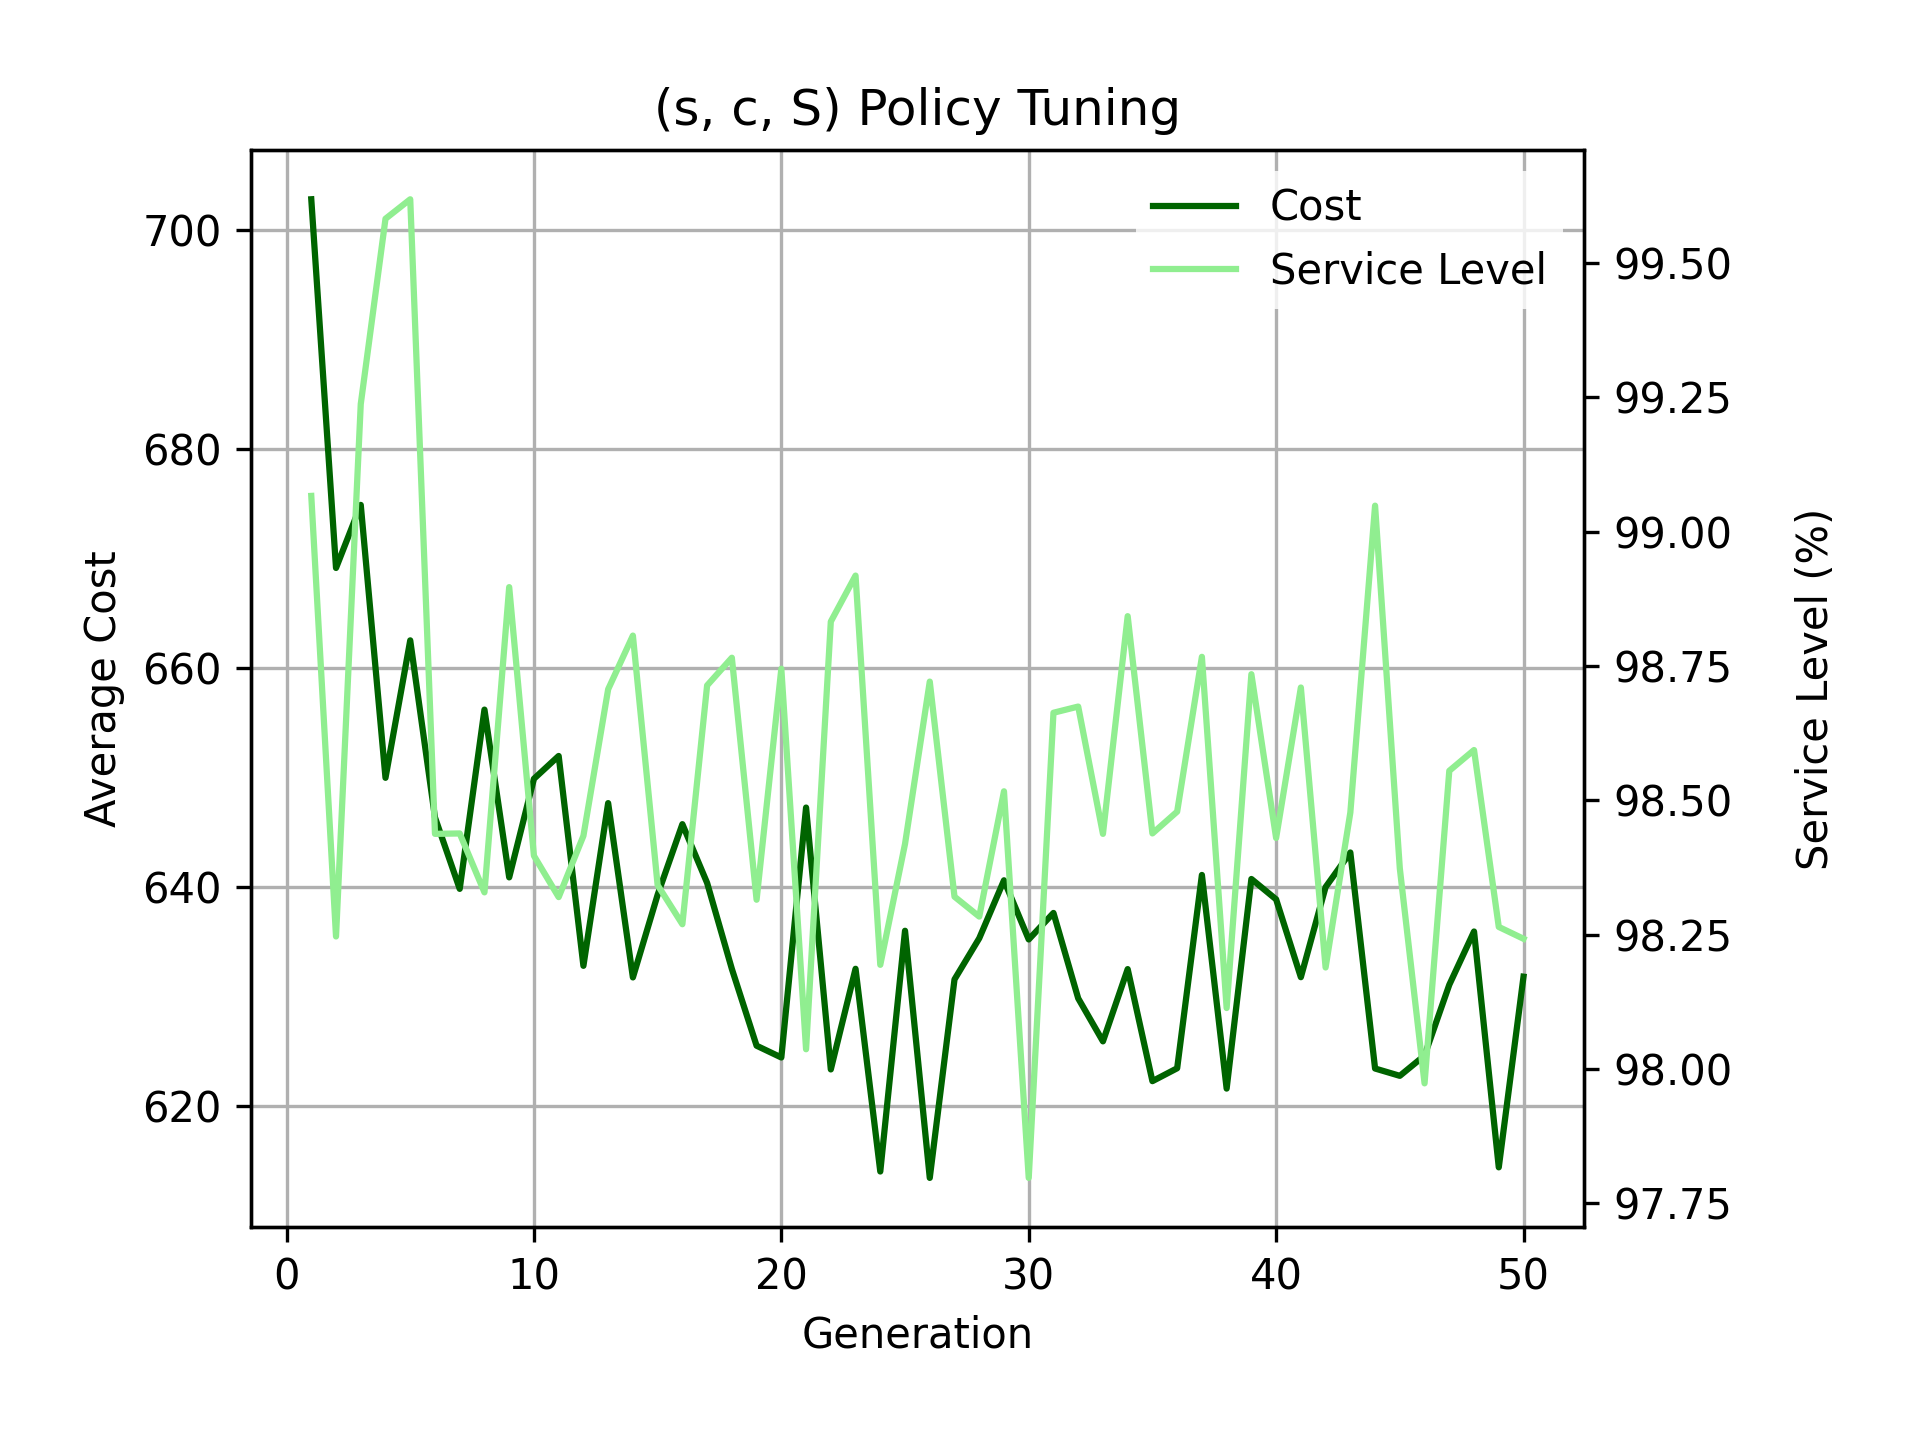
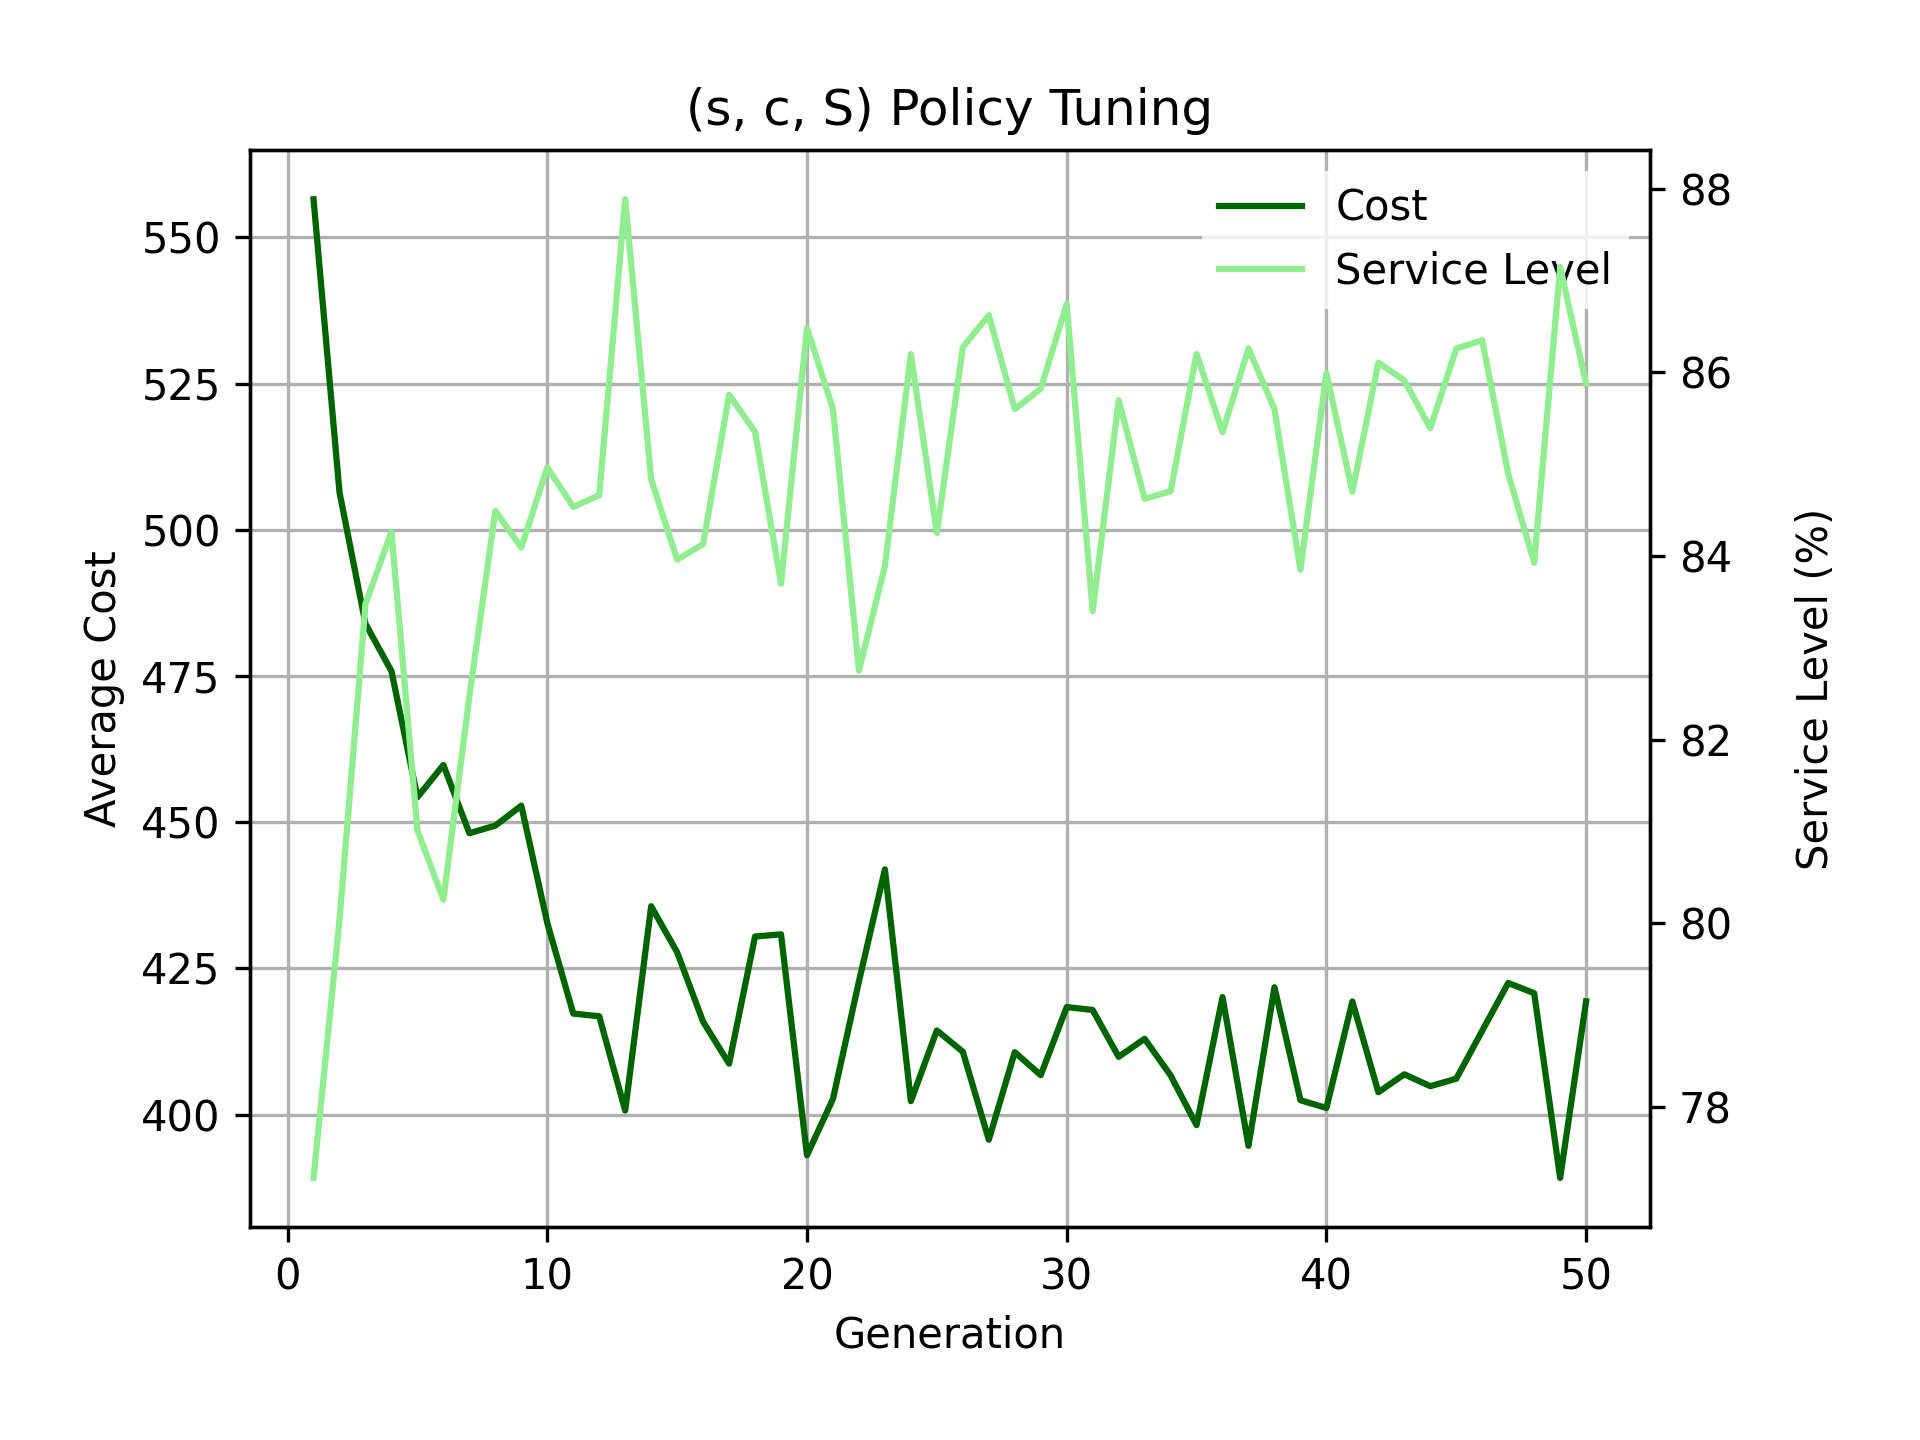
adjusted logic to suit deep reinforcement learning comparison

diff --git a/CanOrder_JointReplenishment/src/CanOrder_JointReplenishment/simulation.py b/CanOrder_JointReplenishment/src/CanOrder_JointReplenishment/simulation.py
@@ -1,6 +1,8 @@
 import numpy as np
 import json
 
+from pandas.core.arrays import period
+
 def load_setup(file_path):
     """
     Load setup configuration from a JSON file.
@@ -79,18 +81,15 @@ def simulate_policy(demand_distribution, policies, setup):
             if demand < 0:
                 raise ValueError("demand cannot be negative!")
 
-            total_demand += demand
             inventory_position[i] -= demand
-
-            if inventory_position[i] < 0:
-                inventory_position[i] = 0
+            inventory_level[i] += pipeline_inventory[i, 0] - demand
 
             if inventory_level[i] >= demand:
                 total_demand_met += demand
-                inventory_level[i] -= demand
             else:
-                total_demand_met += inventory_level[i]  # Partial demand fulfillment
-                inventory_level[i] = 0  # Set inventory level to zero
+                total_demand_met += max(0,inventory_level[i])  # Partial demand fulfillment
+                total_cost += (demand-inventory_level[i]) * backorder_cost # more like a penalty cost
+                # inventory_level[i] = 0  # when lost sales is active
 
             s, c, S = policies[i]
 
@@ -112,10 +111,8 @@ def simulate_policy(demand_distribution, policies, setup):
                     pipeline_inventory[i, lead_time - 1] += order_quantity
 
         # Update pipeline inventory
-        for i in range(num_items):
-            inventory_level += pipeline_inventory[:, 0]
-            pipeline_inventory[:, 0] = 0
-            pipeline_inventory = np.roll(pipeline_inventory, shift=-1, axis=1)
+        pipeline_inventory[:, 0] = 0
+        pipeline_inventory = np.roll(pipeline_inventory, shift=-1, axis=1)
 
         # Do not count costs in warm-up!
     
@@ -140,14 +137,14 @@ def simulate_policy(demand_distribution, policies, setup):
 
             total_demand += demand
             inventory_position[i] -= demand
+            inventory_level[i] += pipeline_inventory[i, 0] - demand
 
             if inventory_level[i] >= demand:
                 total_demand_met += demand
-                inventory_level[i] -= demand
             else:
-                total_demand_met += inventory_level[i]  # Partial demand fulfillment
+                total_demand_met += max(0,inventory_level[i])  # Partial demand fulfillment
                 total_cost += (demand-inventory_level[i]) * backorder_cost # more like a penalty cost
-                inventory_level[i] = 0  # Set inventory level to zero
+                # inventory_level[i] = 0  # when lost sales is active
 
             s, c, S = policies[i]
 
@@ -170,7 +167,8 @@ def simulate_policy(demand_distribution, policies, setup):
         
         # Add holding costs
         for i in range(num_items):
-            total_cost += inventory_level[i] * holding_cost
+            if inventory_level[i] > 1:
+                total_cost += inventory_level[i] * holding_cost
         
         # Add ordering costs
         if np.any(pipeline_inventory[:, -1] != 0):
@@ -182,17 +180,17 @@ def simulate_policy(demand_distribution, policies, setup):
             # Update container fill rate, total container and order counter metrics
             total_orders += 1
             total_containers += np.ceil(total_volume / container_volume)
-            container_fill_rate += total_volume / container_volume / np.ceil(total_volume / container_volume)
-            
+            container_fill_rate += total_volume / (container_volume * np.ceil(total_volume / container_volume))
+
         # Update physical and pipeline inventory
-        inventory_level += pipeline_inventory[:, 0]
         pipeline_inventory[:, 0] = 0
         pipeline_inventory = np.roll(pipeline_inventory, shift=-1, axis=1)
-
+        
     # Calculate the metrics
     service_level = 100 * (total_demand_met / total_demand) if total_demand > 0 else 1.0
-    container_fill_rate = container_fill_rate / total_orders if total_orders > 0 else 0
+    containers_per_order = total_containers / total_orders if total_orders > 0 else 0
+    container_fill_rate = container_fill_rate / total_containers if total_containers > 0 else 0
     periodicity = np.float64(total_orders / num_samples)
     total_cost = total_cost / num_samples
 
-    return total_cost, service_level, container_fill_rate, periodicity
+    return total_cost, service_level, container_fill_rate, periodicity, containers_per_order

diff --git a/CanOrder_JointReplenishment/src/CanOrder_JointReplenishment/genetic_algorithm.py b/CanOrder_JointReplenishment/src/CanOrder_JointReplenishment/genetic_algorithm.py
@@ -62,9 +62,9 @@ def evaluate_fitness(population, demand_distribution, setup):
         
         # Collect results as they finish
         for future in concurrent.futures.as_completed(futures):
-            cost, service_level, container_fill_rate, periodicity = future.result()
+            cost, service_level, container_fill_rate, periodicity, containers_per_order = future.result()
             # Add the policy, cost, and service level to the fitness_scores list
-            fitness_scores.append((population[futures.index(future)], cost, service_level, container_fill_rate, periodicity))
+            fitness_scores.append((population[futures.index(future)], cost, service_level, container_fill_rate, periodicity, containers_per_order))
 
     # Sort by the cost (using the external function instead of lambda)
     fitness_scores.sort(key=sort_by_cost)
@@ -93,7 +93,7 @@ def evaluate_fitness(population, demand_distribution, setup):
     # Loop through each policy in the population and evaluate its fitness
     for policies in population:
         # Simulate the policy and get the cost and service level
-        cost, service_level, container_fill_rate, peroidicity = simulate_policy(demand_distribution, policies, setup)
+        cost, service_level, container_fill_rate, peroidicity, containers_per_order = simulate_policy(demand_distribution, policies, setup)
         # Add the policy, cost, and service level to the fitness_scores list
         fitness_scores.append((policies, cost, service_level, container_fill_rate, peroidicity))
 
@@ -101,7 +101,8 @@ def evaluate_fitness(population, demand_distribution, setup):
     fitness_scores.sort(key=sort_by_cost)
 
     return fitness_scores
- '''
+ 
+'''
 
 def select_parents(fitness_scores, num_parents):
     """

diff --git a/CanOrder_JointReplenishment/src/CanOrder_JointReplenishment/main.py b/CanOrder_JointReplenishment/src/CanOrder_JointReplenishment/main.py
@@ -24,13 +24,13 @@ def main():
     # Save the best policies to a .txt file
     with open('best_policies.txt', 'w') as file:
         file.write("Best Policies, Costs, and Service Levels:\n")
-        for policies, cost, service_level, container_fill_rate, periodicity in best_policies:
-            file.write(f"Policies: {policies}, Cost = {cost:.2f}, Service Level = {service_level:.2f}%, Fill Rate = {container_fill_rate:.2f}%, Periodicity = {periodicity:.2f}\n")
+        for policies, cost, service_level, container_fill_rate, periodicity, containers_per_order in best_policies:
+            file.write(f"Policies: {policies}, Cost = {cost:.2f}, Service Level = {service_level:.2f}%, Fill Rate = {container_fill_rate:.2f}, Periodicity = {periodicity:.3f}, Containers per Order = {containers_per_order:.2f}\n")
     
     # Print the top 10 best policies along with their costs and service levels
     print("Top 10 Best Policies, Costs, and Service Levels:")
-    for policies, cost, service_level, container_fill_rate, periodicity in best_policies:
-        print(f"Policies: {policies}, Cost = {cost:.2f}, Service Level = {service_level:.2f}%, Fill Rate = {container_fill_rate:.2f}%, Periodicity = {periodicity:.3f}")
+    for policies, cost, service_level, container_fill_rate, periodicity, containers_per_order in best_policies:
+        print(f"Policies: {policies}, Cost = {cost:.2f}, Service Level = {service_level:.2f}%, Fill Rate = {container_fill_rate:.2f}, Periodicity = {periodicity:.3f}, Containers per Order = {containers_per_order:.2f}")
 
 if __name__ == "__main__":
     main()
